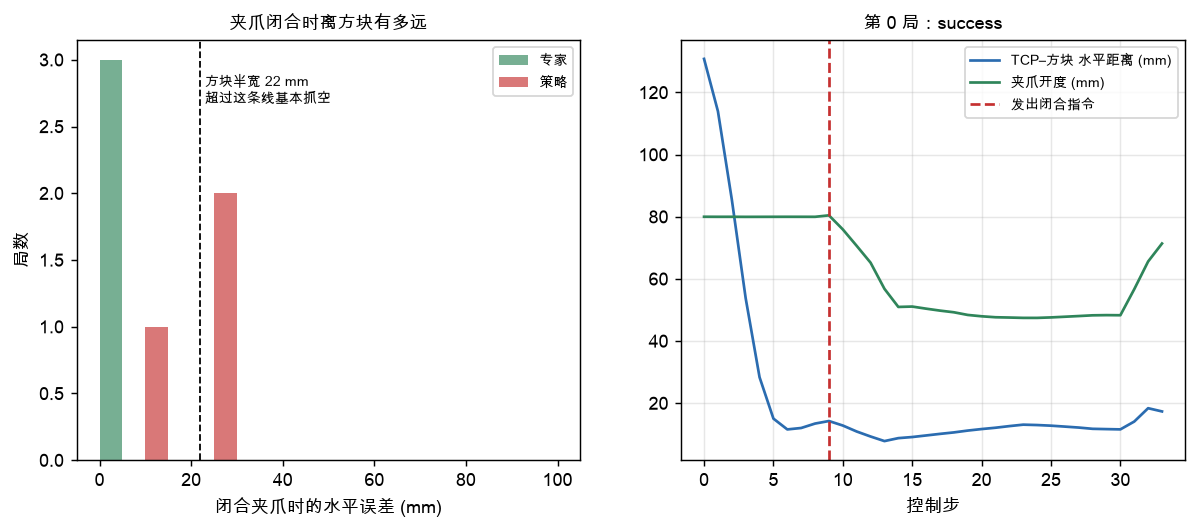
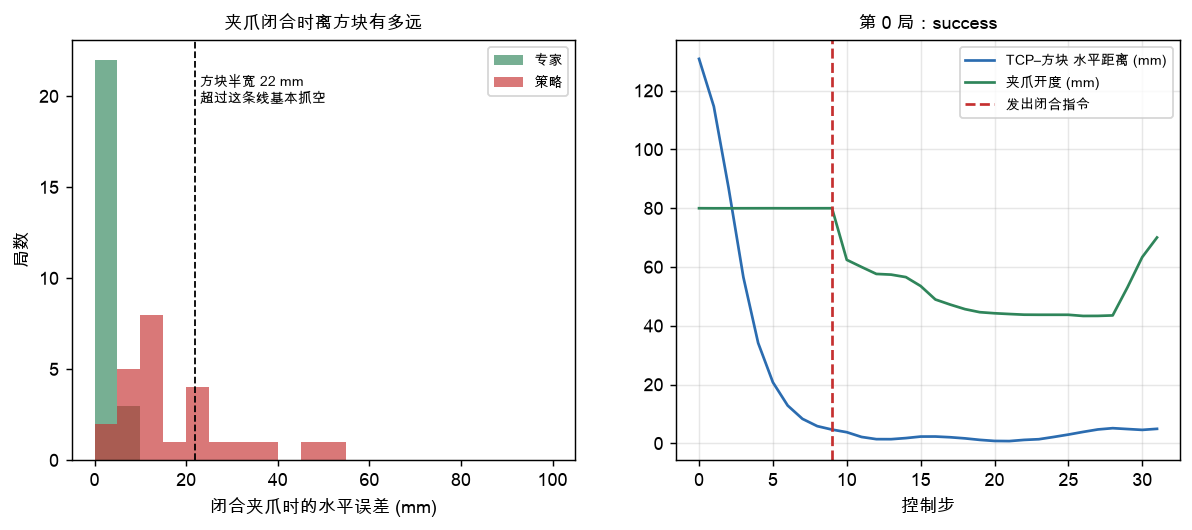
ResNet closing error 16.9mm vs CNN 13.8mm: direction matches, magnitude modest

diff --git a/scripts/diagnose_grasp.py b/scripts/diagnose_grasp.py
@@ -62,7 +62,9 @@ def main():
     dev = torch.device("mps" if torch.backends.mps.is_available() else "cpu")
     model, vocab, cfg, sm, ss = load_policy(a.run, dev)
     env = TabletopEnv(seed=a.seed)
-    runner = Runner(model, vocab, sm, ss, dev, k=cfg["eval"]["ensemble_k"])
+    runner = Runner(model, vocab, sm, ss, dev, k=cfg["eval"]["ensemble_k"],
+                    stride=cfg["eval"].get("stride", 1),
+                    state_history=cfg["model"].get("state_history", 1))
 
     pol = [trace(runner, env, a.seed + i) for i in range(a.episodes)]
     exp = [trace(None, env, a.seed + i, is_expert=True) for i in range(a.episodes)]

diff --git a/notes/22-预训练视觉骨干.md b/notes/22-预训练视觉骨干.md
@@ -50,6 +50,19 @@ ResNet  没碰到 13、抓错方块 2、推走 2、没进盘子 1
 而 `notes/02` 的 2×2 对照恰恰发现**越尖锐闭环越差**（期望坐标塌缩到格子中心，亚格子精度丢失）。
 所以现在这个结果里，"预训练没用"和"学习率不对导致特征被冲坏 + 分布过尖"是分不开的。
 
+### 顺带量了抓取精度，方向对得上
+
+| | 闭合夹爪时的水平误差（中位数） | 25 局成功 |
+|---|---|---|
+| 脚本专家 | 3.5 mm | 25/25 |
+| 从零 CNN | **13.8 mm** | 23/25 |
+| ResNet18 | **16.9 mm** | 19/25 |
+
+方块半宽 22 mm，两个模型的**中位数**都在可抓范围内，差别体现在尾部。
+ResNet 的对准确实更差（+3.1 mm），和"分布过尖 → 期望坐标塌缩 → 亚格子精度丢失"这个猜测方向一致，
+但量级不大，说明它不是全部原因。
+（而且"第一次闭合"这个指标本身在会重试的策略上是失真的，见 `notes/12` 附录。）
+
 **所以严格的说法是**：在同一套超参下，把从零 CNN 换成 ImageNet 预训练 ResNet18，
 闭环显著变差（p=0.0044）。**这还不足以下"预训练视觉骨干对这个任务没用"的结论。**
 
